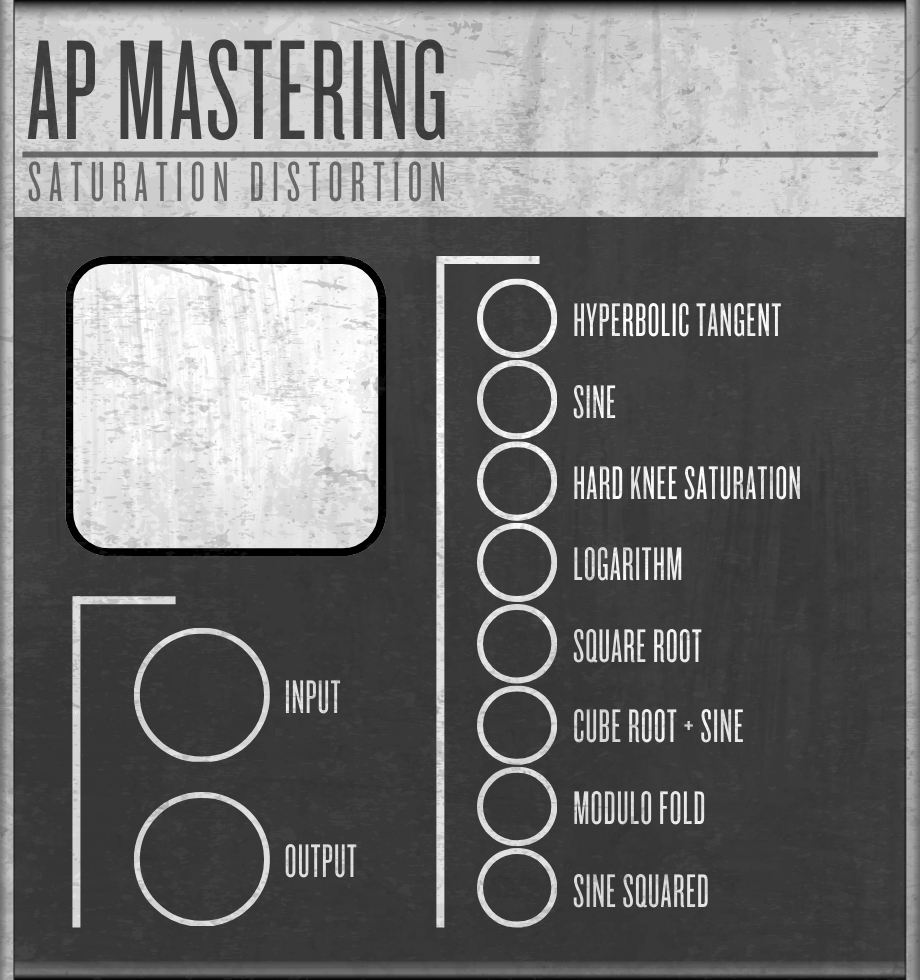
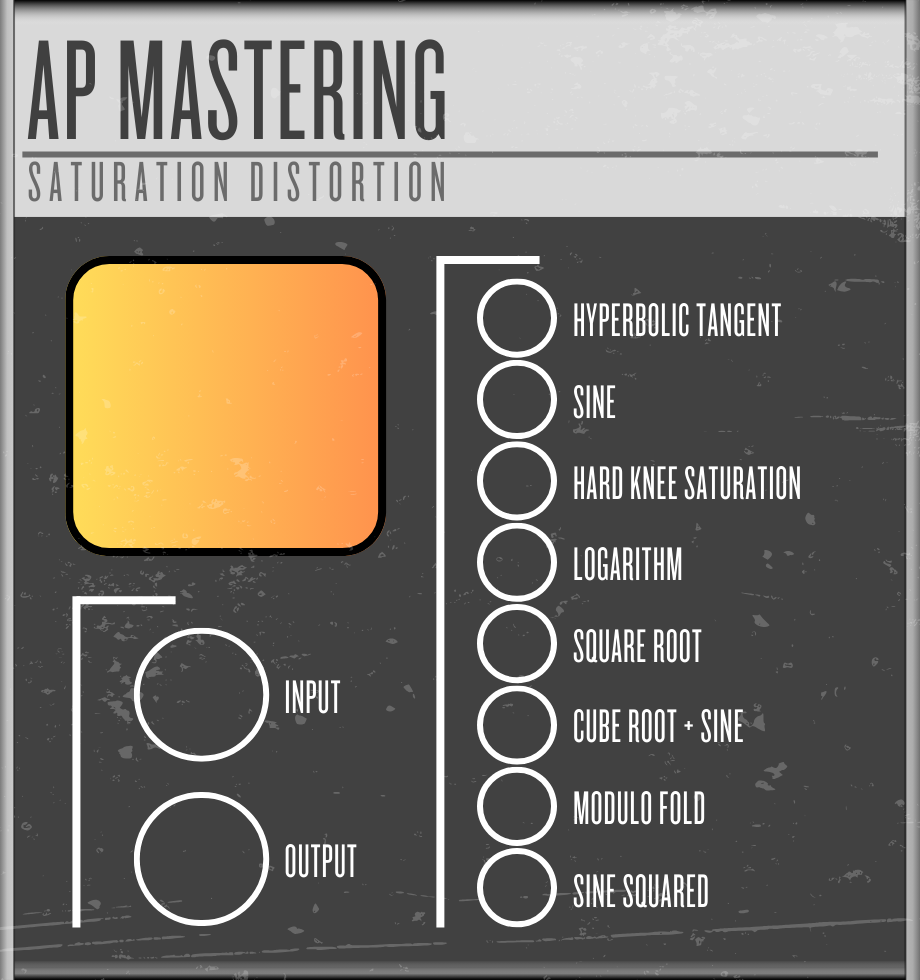
knob behaviour vastly improved

diff --git a/Source/PluginEditor.cpp b/Source/PluginEditor.cpp
@@ -10,7 +10,7 @@ GUI::GUI (APComp& p)
 : AudioProcessorEditor (&p),
 audioProcessor (p),
 backgroundImage (juce::ImageFileFormat::loadFrom(BinaryData::saturation_png, BinaryData::saturation_pngSize)),
-tanhImage       (juce::ImageFileFormat::loadFrom(BinaryData::tanh_png, BinaryData::tanh_pngSize)),
+/*tanhImage       (juce::ImageFileFormat::loadFrom(BinaryData::tanh_png, BinaryData::tanh_pngSize)),
 hardImage       (juce::ImageFileFormat::loadFrom(BinaryData::hard_png, BinaryData::hard_pngSize)),
 logImage        (juce::ImageFileFormat::loadFrom(BinaryData::log_png, BinaryData::log_pngSize)),
 foldImage       (juce::ImageFileFormat::loadFrom(BinaryData::fold_png, BinaryData::fold_pngSize)),
@@ -18,6 +18,7 @@ squaredSineImage(juce::ImageFileFormat::loadFrom(BinaryData::squaredSine_png, Bi
 sineImage       (juce::ImageFileFormat::loadFrom(BinaryData::sine_png, BinaryData::sine_pngSize)),
 sqrtImage       (juce::ImageFileFormat::loadFrom(BinaryData::sqrt_png, BinaryData::sqrt_pngSize)),
 cubeImage       (juce::ImageFileFormat::loadFrom(BinaryData::cube_png, BinaryData::cube_pngSize)),
+ */
 customTypeface (APFont::getFont()),
 inGainSlider(),
 outGainSlider(),
@@ -168,7 +169,7 @@ void GUI::paint (juce::Graphics& g) {
     g.strokePath(path, juce::PathStrokeType(4.0f));
     g.strokePath(path2, juce::PathStrokeType(2.0f));
     
-    
+    /*
     switch (selection) {
         case static_cast<int>(ButtonName::tanh):
             g.drawImageWithin(tanhImage,
@@ -241,6 +242,7 @@ void GUI::paint (juce::Graphics& g) {
                               mathB - mathT,
                               juce::RectanglePlacement::xMid);
     }
+     */
 }
 
 
@@ -295,8 +297,16 @@ void GUI::mouseDown (const juce::MouseEvent& event) {
     currentButtonSelection = determineButton(event);
     
     if (currentButtonSelection == ButtonName::none) return;
-    if (currentButtonSelection == ButtonName::input) return;
-    if (currentButtonSelection == ButtonName::output) return;
+    if (currentButtonSelection == ButtonName::input) {
+        
+        snapshotGain = audioProcessor.getFloatKnobValue(ParameterNames::inGain);
+        return;
+    }
+    if (currentButtonSelection == ButtonName::output) {
+        
+        snapshotGain = audioProcessor.getFloatKnobValue(ParameterNames::outGain);
+        return;
+    }
 
     selectionSlider.setValue(static_cast<int>(currentButtonSelection));
 }
@@ -308,23 +318,17 @@ void GUI::mouseDrag (const juce::MouseEvent& event) {
         currentButtonSelection != ButtonName::output)
         return;
         
-    const float delta = (previousMouseY - event.position.y) * 0.1;
+    const float delta = (previousMouseY - event.position.y) * 0.1f;
 
     if (currentButtonSelection == ButtonName::input) {
         
-        const float inputGainValue  = audioProcessor.getFloatKnobValue(ParameterNames::inGain);
-
-        inGainSlider.setValue(inputGainValue + delta);
+        inGainSlider.setValue(snapshotGain + delta);
     }
     
     if (currentButtonSelection == ButtonName::output) {
         
-        const float outputGainValue = audioProcessor.getFloatKnobValue(ParameterNames::outGain);
-
-        outGainSlider.setValue(outputGainValue + delta);
+        outGainSlider.setValue(snapshotGain + delta);
     }
-    
-    previousMouseY = event.position.y;
 }
 
 

diff --git a/Source/PluginEditor.h b/Source/PluginEditor.h
@@ -24,6 +24,7 @@ private:
                 
     juce::Image backgroundImage;
     
+    /*
     juce::Image tanhImage;
     juce::Image hardImage;
     juce::Image logImage;
@@ -32,7 +33,8 @@ private:
     juce::Image sineImage;
     juce::Image sqrtImage;
     juce::Image cubeImage;
-
+*/
+    
     juce::Font customTypeface;
         
     juce::Slider inGainSlider;
@@ -70,6 +72,8 @@ private:
     const int mathB = 70;
     
     int previousMouseY;
+    
+    float snapshotGain;
     
     ButtonName currentButtonSelection;
         
